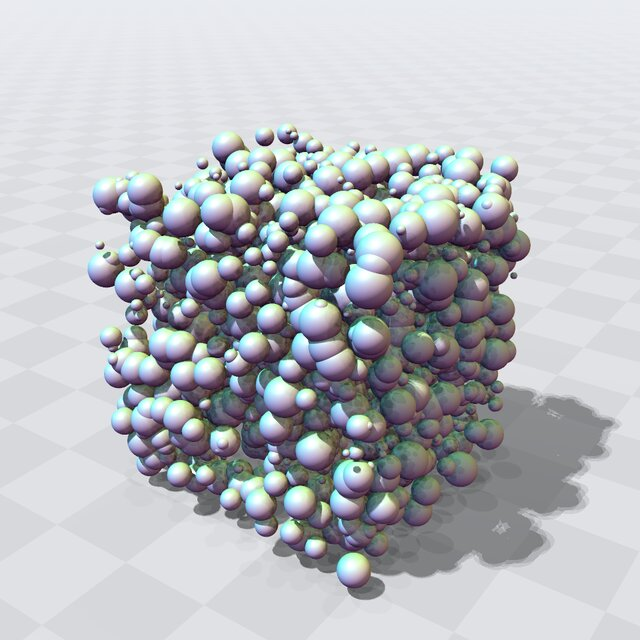
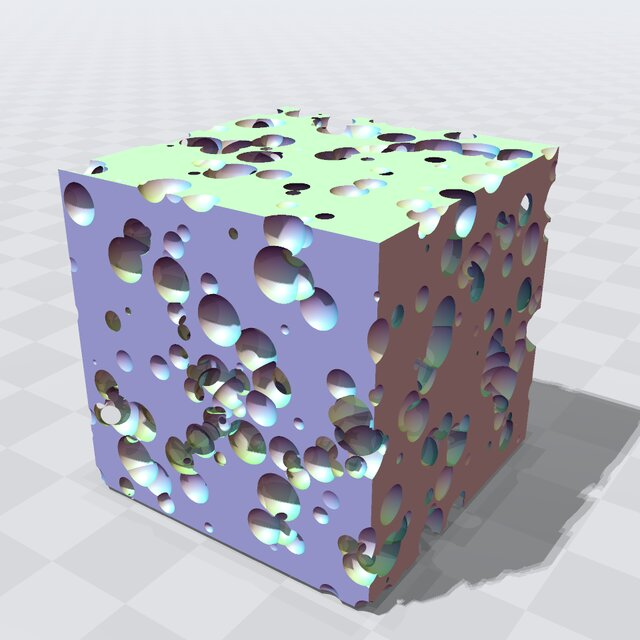
SphereClouds: the cloud in a tape, cut out of a block, and a ray through both; the user guide on the cloud's rays and tapes
Claude-Session: https://claude.ai/code/session_01FnaeZk1ThKVcT9ypbex2Vt

diff --git a/Examples/SphereClouds/main.cpp b/Examples/SphereClouds/main.cpp
@@ -3,8 +3,8 @@
 // SPDX-License-Identifier: GPL-3.0-or-later
 
 // Particles of differing sizes: the signed distance to their union and the particle closest to a point, through
-// a SphereCloudBVH built from the particles' centers and radii, kept in arrays of the program's own. The last part
-// asks the same on a GPU. See README.md.
+// a SphereCloudBVH built from the particles' centers and radii, kept in arrays of the program's own; the cloud in a
+// tape, cut out of a block, and a ray through both. The last part asks the closest particle on a GPU. See README.md.
 
 #include <cstddef>
 #include <cstdint>
@@ -23,6 +23,9 @@
 using T     = EBGEOMETRY_PRECISION;
 using Vec3  = EBGeometry::Vec3T<T>;
 using Cloud = EBGeometry::SphereCloudBVH<T>;
+
+// A tape that can hold a cloud: its type is listed among the tape's primitives, as a mesh SDF's would be.
+using Block = EBGeometry::Tape<T, Cloud>;
 
 // What a query reports for the particle it finds: its index in the arrays the cloud was built from, and the signed
 // distance to its surface (negative inside it).
@@ -96,6 +99,21 @@ main(int argc, char* argv[])
   std::cout << "  at particle 0's center: " << cloud.signedDistance(centers[0]) << " (its radius is " << radii[0]
             << ")\n";
 
+  // ── The cloud in a tape ────────────────────────────────────────────────────────────────────────────
+  //
+  // The cloud is a shape, and takes part in CSG through a tape: here a block with the particles cut out of it.
+  // The tape lives in the cloud's pool. A ray crosses the cloud exactly, through its BVH, and reports the particle
+  // it meets; through the tape it is just as exact, and meets the block's surface wherever no particle cuts it.
+  const EBGeometry::BoxSDF<T> box(Vec3(T(0.1), T(0.1), T(0.1)), Vec3(T(0.9), T(0.9), T(0.9)));
+  const Block                 block(pool, EBGeometry::Difference(EBGeometry::Expr<T>(box), EBGeometry::Expr<T>(cloud)));
+
+  const EBGeometry::RayT<T> ray{Vec3(T(0.5), T(0.5), T(-1)), Vec3(T(0), T(0), T(1))};
+  const EBGeometry::HitT<T> particleHit = EBGeometry::firstHit(cloud, ray, T(0), T(3));
+  const EBGeometry::HitT<T> blockHit    = EBGeometry::firstHit(block, ray, T(0), T(3));
+
+  std::cout << "A ray up the z axis through (0.5, 0.5) meets particle " << particleHit.m_primitive
+            << " at z = " << particleHit.m_point[2] << ", and the block at z = " << blockHit.m_point[2] << '\n';
+
   // ── The same query on a GPU ────────────────────────────────────────────────────────────────────────
   //
   // Freeze the pool, mirror it in one piece into GPU::memoryResource() (device memory in a CUDA or HIP build), and
@@ -123,9 +141,10 @@ main(int argc, char* argv[])
 
   // ── Look at it ─────────────────────────────────────────────────────────────────────────────────────
   //
-  // A window on the particles (built with VIEWER=SDL2; otherwise, with --no-view or without a display, view()
-  // prints why and returns). X cuts the cloud open. Given the pool, view() renders on the GPU in a GPU build.
-  EBGeometry::Render::view(cloud, pool, argc, argv);
+  // A window on the block (built with VIEWER=SDL2; otherwise, with --no-view or without a display, view() prints
+  // why and returns). X cuts it open. Given the pool, view() renders on the GPU in a GPU build, tracing the cloud
+  // exactly there too.
+  EBGeometry::Render::view(block, pool, argc, argv);
 
   return 0;
 }

diff --git a/Source/EBGeometry_SphereCloudBVH.hpp b/Source/EBGeometry_SphereCloudBVH.hpp
@@ -207,12 +207,13 @@ struct SpherePrimitive
 
 /**
  * @brief A BVH over spheres of differing radii (polydisperse particles), with the signed distance to their
- * union, the closest sphere, and the contacts between spheres.
+ * union, the closest sphere, the contacts between spheres, and exact rays.
  * @details A shape: signedDistance() and computeBoundingVolume(), negative inside a sphere. The distance is
  * min_i(|p - c_i| - r_i) over the spheres: exact outside their union, and inside it a bound in magnitude (where
  * spheres overlap, the union's surface can be farther than every sphere's own), as for a Union of the
- * spheres. Spheres of one radius need no SphereCloudBVH: the distance from a PointCloudBVH of the centers,
- * less the radius, is the same.
+ * spheres. Rays cross the union exactly (RayForm<SphereCloudBVH>, in EBGeometry_SphereCloudRayForm.hpp), and a
+ * tape takes the cloud as a primitive, stored as its Layout. Spheres of one radius need no SphereCloudBVH: the
+ * distance from a PointCloudBVH of the centers, less the radius, is the same.
  *
  * The build is PointCloudBVH's linear build (see there), over the centers: the Morton keys and cuts come
  * from the centers, and every box is grown by its spheres' radii. It runs where the pool's memory is, on a
@@ -222,7 +223,7 @@ struct SpherePrimitive
  * @note Device portability, as for PointCloudBVH: the packed BVH and the cloud's arrays are reserved from
  * one Pool and the class stores only offsets into it, so it is trivially copyable. Freeze and mirror the
  * pool, call rebasedView(), and pass the value into a kernel; signedDistance(), closestSphere(),
- * forEachContact() and computeBoundingVolume() are device-callable. The pool must outlive the BVH and every copy of it.
+ * forEachContact(), computeBoundingVolume() and the ray form are device-callable. The pool must outlive the BVH and every copy of it.
  *
  * @tparam T Floating-point precision.
  * @tparam K BVH branching factor. Defaults to BVH::DefaultBranchingRatio<T>().

diff --git a/Source/EBGeometry_Ray.hpp b/Source/EBGeometry_Ray.hpp
@@ -15,7 +15,8 @@
  *
  * A shape with a ray form (see RayForm) is ray traced instead, which is exact and much faster: the plane,
  * sphere, box, cylinders and capsule in closed form (EBGeometry_AnalyticRayForms.hpp), the mesh SDFs
- * through their BVHs and faces (EBGeometry_MeshRayForms.hpp), and the compositions built from them, a
+ * through their BVHs and faces (EBGeometry_MeshRayForms.hpp), SphereCloudBVH through its BVH and spheres
+ * (EBGeometry_SphereCloudRayForm.hpp), and the compositions built from them, a
  * union, intersection, difference, complement or affine map of shapes with ray forms (the fused
  * operations and BVHUnion in EBGeometry_CSGRayForms.hpp, and Tape): those combine where the ray is
  * inside each operand (its spans, see RaySpansT), and march only the parts that have no ray form. An offset

diff --git a/Docs/Sphinx/source/ImplemRays.rst b/Docs/Sphinx/source/ImplemRays.rst
@@ -48,8 +48,9 @@ leaving, as a `HitT <doxygen/html/structEBGeometry_1_1HitT.html>`__:
    * - ``m_entering``
      - Whether the ray enters the object there, rather than leaving it.
    * - ``m_primitive``
-     - The finest part the shape can name: the face of a mesh SDF (its index in the file), the
-       deciding leaf of a tape (``Tape::closestPrimitive()``), the member crossed for a ``BVHUnion``
+     - The finest part the shape can name: the face of a mesh SDF (its index in the file), the sphere crossed
+       for a ``SphereCloudBVH`` (its cloud index), the deciding leaf of a tape (``Tape::closestPrimitive()``),
+       the member crossed for a ``BVHUnion``
        (its place in the union's storage, not the order given to the constructor), and 0 for any other shape (see
        :ref:`Sec:RayTracedHits`).
    * - ``m_exact``
@@ -108,6 +109,10 @@ marched (see :ref:`Chap:SphereTracing`). The library has ray forms for:
        as for its signed distance.
    * - ``FlatMeshSDF``
      - Every face in turn, without a BVH, as its signed distance does: for small meshes and checks.
+   * - ``SphereCloudBVH``
+     - Its BVH, walked nearest box first, and the union of the spans of the spheres the ray passes through,
+       so that where spheres overlap only the surface of their union is crossed
+       (`EBGeometry_SphereCloudRayForm.hpp <doxygen/html/EBGeometry__SphereCloudRayForm_8hpp.html>`__).
    * - ``Fused::Union``, ``Fused::Intersection``, ``Fused::Difference``, ``Fused::Complement``,
        ``Fused::Translate``, ``Rotate``, ``Scale``, ``Reflect``
      - Their operands' spans, combined (see :ref:`Sec:RaySpans`; `EBGeometry_CSGRayForms.hpp
@@ -131,8 +136,8 @@ marched (see :ref:`Chap:SphereTracing`). The library has ray forms for:
        (see :ref:`Sec:TapeFeatures`), and marched otherwise. Its smooth unions and intersections are marched.
 
 Every other shape is marched: the other analytic shapes, ``BVHSmoothUnion``, the other fused operations
-and shapes of your own without a ray form. The ray forms of the analytic shapes and the mesh SDFs come
-with their shapes' headers. Those of the fused operations, ``BVHUnion`` and the offsets come with
+and shapes of your own without a ray form. The ray forms of the analytic shapes, the mesh SDFs and
+``SphereCloudBVH`` come with their shapes' headers. Those of the fused operations, ``BVHUnion`` and the offsets come with
 ``EBGeometry_CSG.hpp`` (or ``EBGeometry.hpp``), not with ``EBGeometry_Fused.hpp`` alone: include it in
 every translation unit that ray traces a composition, so that ``firstHit()`` on it is the same function
 everywhere.

diff --git a/Docs/Sphinx/source/ExampleSphereClouds.rst b/Docs/Sphinx/source/ExampleSphereClouds.rst
@@ -5,14 +5,15 @@ Sphere clouds
 
 Particles of differing sizes, kept as a center and a radius each in arrays of the program's own: the signed
 distance to their union, and the particle closest to a point, through a
-`SphereCloudBVH <doxygen/html/classEBGeometry_1_1SphereCloudBVH.html>`__ (see :ref:`Chap:ImplemPointCloud`). The
-source is at :file:`Examples/SphereClouds/main.cpp`.
+`SphereCloudBVH <doxygen/html/classEBGeometry_1_1SphereCloudBVH.html>`__ (see :ref:`Chap:ImplemPointCloud`); then the
+cloud in a tape, cut out of a block, and a ray through both. The source is at
+:file:`Examples/SphereClouds/main.cpp`.
 
 .. figure:: /_static/example_SphereClouds.jpg
    :width: 60%
    :align: center
 
-   2,000 particles in the unit cube, with radii between 0.01 and 0.06.
+   A block with 2,000 particles cut out of it, with radii between 0.01 and 0.06.
 
 The code that runs on either side
 ---------------------------------
@@ -44,6 +45,23 @@ Using it on the host
 distance to the nearest one outside them all. ``closestSphere(p)`` names that particle and gives the same
 distance. The program prints both at a few points, and the value at a particle's center.
 
+The cloud in a tape
+-------------------
+
+The cloud is a shape, so it takes part in CSG through a tape (see :ref:`Chap:ImplemCSG`), as a mesh SDF does: its
+type is listed among the tape's primitives, and the tape is built in the cloud's pool. Here a block with the
+particles cut out of it:
+
+.. code-block:: c++
+
+   using Block = EBGeometry::Tape<T, SphereCloudBVH<T>>;
+
+   const Block block(pool, Difference(Expr<T>(box), Expr<T>(cloud)));
+
+A ray crosses the cloud exactly, through its BVH, and reports the particle it meets in ``HitT::m_primitive``; where
+particles overlap, it crosses only the surface of their union. Through the tape it is just as exact. The program
+sends one ray up through the block and prints where it meets a particle and where it meets the block.
+
 The same query on a GPU
 -----------------------
 
@@ -54,7 +72,8 @@ run on the host.
 Looking at it
 -------------
 
-The example ends with ``Render::view(cloud, pool, argc, argv)``; X cuts the cloud open.
+The example ends with ``Render::view(block, pool, argc, argv)``, which traces the particles exactly; X cuts the block
+open.
 
 The window needs SDL2 and is built with ``make VIEWER=SDL2`` or ``cmake -DEBGEOMETRY_VIEWER=SDL2`` (see
 :ref:`Sec:ConfigViewer`); otherwise, and with ``--no-view`` or without a display, ``view()`` prints why

diff --git a/Docs/Sphinx/source/ImplemPointCloud.rst b/Docs/Sphinx/source/ImplemPointCloud.rst
@@ -173,8 +173,8 @@ cloud index and the *signed* distance to its surface, negative inside it. Of two
 the one with the lower index is reported. The distance is exact outside the spheres; inside, where spheres overlap,
 it is the depth below the deepest sphere's surface, a lower bound on the distance to the union's surface (as for a
 CSG ``Union`` of the spheres). With ``computeBoundingVolume()`` it makes the cloud a shape, which the viewer
-renders; it is not a tape primitive or a BVH-union primitive. For spheres of one radius, ``PointCloudBVH`` over
-the centers gives the same distance, less the radius.
+renders and a tape takes as a primitive (below). For spheres of one radius, ``PointCloudBVH`` over the centers
+gives the same distance, less the radius.
 
 The tree is ``PointCloudBVH``'s, over the spheres' centers, with every box grown to hold its spheres whole, and
 everything said above of ``PointCloudBVH`` holds for it: the pool must outlive it, it crosses to a device through
@@ -211,6 +211,18 @@ force is one thread per particle adding up its own contacts, with no list and no
 A list of every particle's contacts is built from it in three steps: count each particle's contacts, add up the
 counts into where each row starts (``GPU::exclusiveScan()`` on a device), and fill the rows;
 :ref:`Chap:ExampleParticleContacts` builds one.
+
+Rays cross the cloud exactly (see :ref:`Chap:ImplemRays`): ``firstHit()`` walks its BVH along the ray and reports
+the sphere crossed by its cloud index, in ``HitT::m_primitive``. Where spheres overlap, a ray crosses only the
+surface of their union, and a ray starting inside a sphere leaves where no sphere holds it any more. The viewer
+traces the cloud the same way, on a device included.
+
+The cloud is a tape primitive, as a mesh SDF is (see :ref:`Chap:ImplemCSG`): list its type among the tape's
+primitives, build the tape in the cloud's pool, and the cloud takes part in CSG, traced exactly there too:
+
+.. code-block:: c++
+
+   const Tape<T, SphereCloudBVH<T>> block(pool, Difference(Expr<T>(box), Expr<T>(cloud)));
 
 See the `SphereCloudBVH doxygen page <doxygen/html/classEBGeometry_1_1SphereCloudBVH.html>`__ for the full
 interface, and :ref:`Chap:ExampleSphereClouds` and :ref:`Chap:ExampleParticleContacts` for worked usage.

diff --git a/Examples/README.md b/Examples/README.md
@@ -27,7 +27,7 @@ The reading order:
 14. `PackedSpheres`: thousands of spheres at random places in a cylinder, joined by a smooth BVH union.
 15. `PointClouds`: closest points and the k-nearest-neighbor graph of a point cloud with `PointCloudBVH`, and the same with `PointCloudHashGrid`.
 16. `ParticleNeighbors`: particles that move, in arrays of the program's own, and their 8 nearest neighbors after every step: a `PointCloudHashGrid` built on the device once, with room to grow, and rebuilt in place.
-17. `SphereClouds`: particles of differing sizes, in arrays of the program's own: the signed distance to their union and the closest particle, with `SphereCloudBVH`.
+17. `SphereClouds`: particles of differing sizes, in arrays of the program's own: the signed distance to their union and the closest particle, with `SphereCloudBVH`; the cloud in a tape, cut out of a block, and a ray through both.
 18. `ParticleContacts`: particles of differing sizes pushed apart in a cylinder until none overlap, with a `rebuild()` each round, and their contacts (`SphereCloudBVH::forEachContact()`): one particle's, a contact list in arrays of the program's own, and a near-contact force per particle on a GPU.
 19. `BVHTraversal`: walking a BVH with a search of your own (`PackedBVH::traverse()`): the nearest object to a point, the first one a ray hits, whether a segment is blocked.
 20. `RayTracing`: casting rays at a triangle mesh (`firstHit()`, `intersects()`): where a ray or a particle's step first crosses the surface, and the same walk of the BVH written by hand.

diff --git a/Examples/SphereClouds/README.md b/Examples/SphereClouds/README.md
@@ -3,7 +3,7 @@ Examples/SphereClouds
 
 2,000 particles of differing sizes in the unit cube, kept as a center and a radius each in arrays of the
 program's own, in a `SphereCloudBVH`: the signed distance to their union and the particle closest to a point, on
-the host and through `GPU::transform`.
+the host and through `GPU::transform`; and the cloud in a tape, cut out of a block, with a ray through both.
 
 Building
 --------
@@ -65,5 +65,5 @@ Running
 
     ./SphereClouds.ex
 
-It prints the number of particles, the box, and at a few points the signed distance and the closest particle,
-from the host and from `GPU::transform`.
+It prints the number of particles, the box, at a few points the signed distance and the closest particle, where
+a ray meets a particle and the block, and the closest particles from `GPU::transform`.

diff --git a/Docs/Sphinx/source/RayTracing.rst b/Docs/Sphinx/source/RayTracing.rst
@@ -114,7 +114,8 @@ the ray leaves the solid. Under an intersection or a difference every span of a 
 its first crossing. Under a union only the first crossings are: the nearest of the parts' first crossings
 is the union's, unless the ray starts inside a part, which the spans also show. A union of many shapes in
 a BVH (see :ref:`Sec:BVHUnions`) walks its BVH along the ray, nearest box first, as a mesh does, and stops
-at the first box beyond the nearest crossing.
+at the first box beyond the nearest crossing; so does a cloud of spheres, whose spheres overlap as a union's
+members may.
 
 A list of spans has a fixed size, so that it fits a device thread. A ray through more pieces than it holds
 keeps the first ones, and the list then says how far along the ray it is complete. If the first crossing

diff --git a/Docs/Sphinx/source/Examples.rst b/Docs/Sphinx/source/Examples.rst
@@ -59,7 +59,7 @@ The examples build on each other. A new user can read them in this order:
 #. :ref:`Chap:ExamplePointClouds`: closest points and nearest neighbors in a point cloud, with a
    BVH or a hash grid.
 #. :ref:`Chap:ExampleSphereClouds`: particles of differing sizes, the signed distance to their union and
-   the closest particle.
+   the closest particle; the cloud in a tape, cut out of a block, and a ray through both.
 #. :ref:`Chap:ExampleParticleContacts`: particles of differing sizes pushed apart in a cylinder until none
    overlap, rebuilding the cloud each round; their contacts, a contact list, and a near-contact force per particle
    on a GPU.
